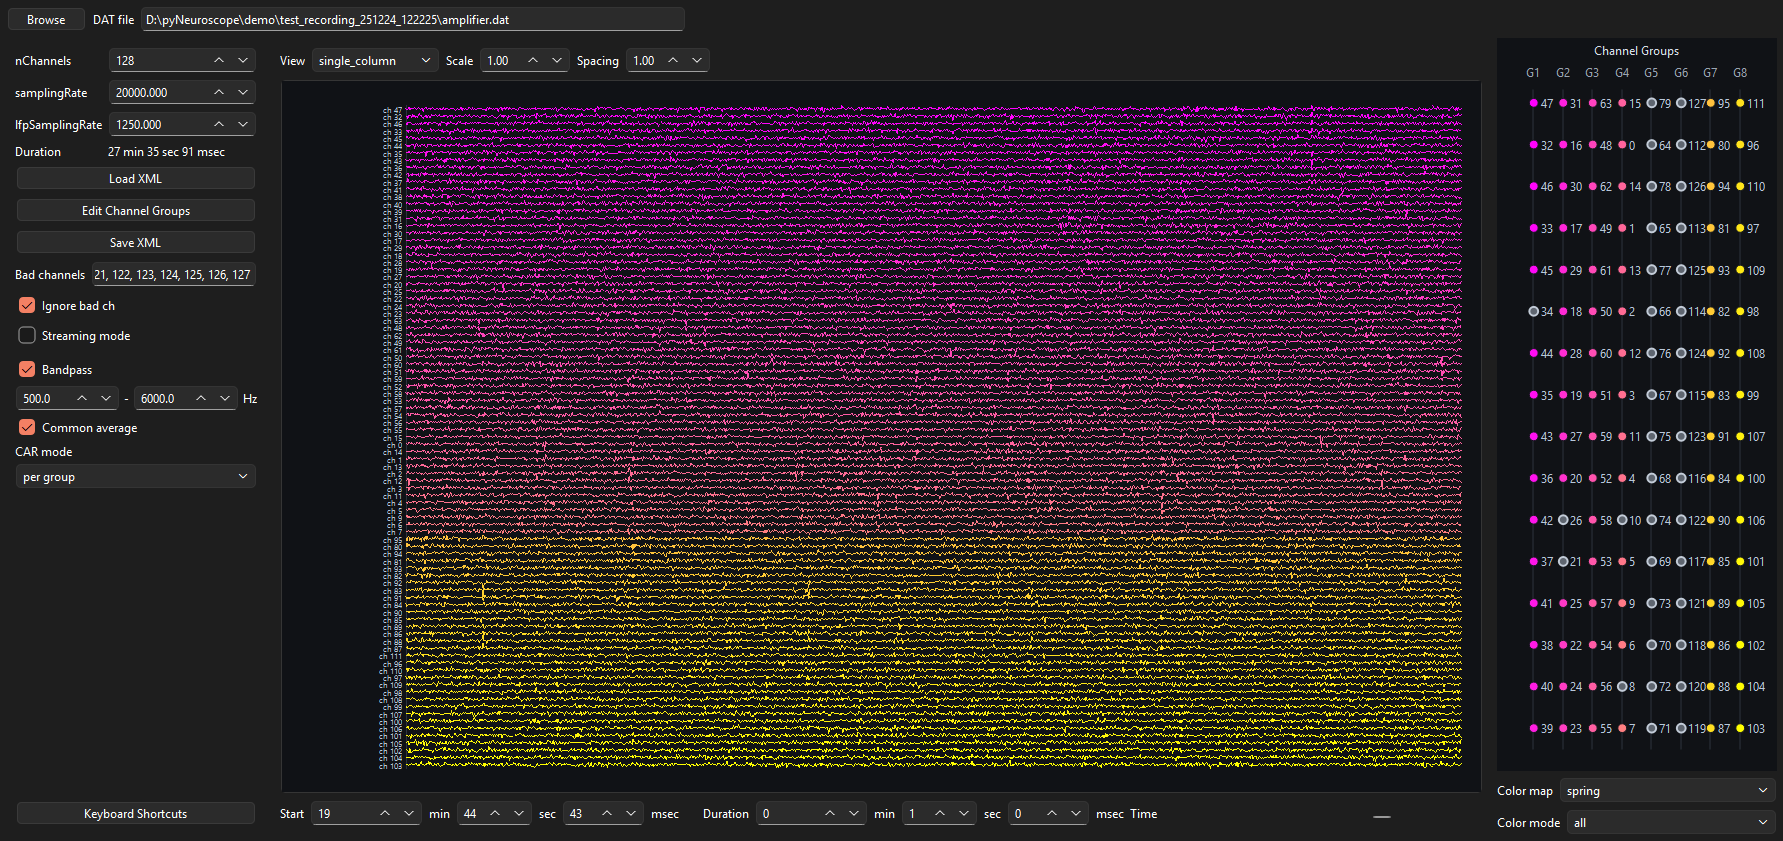
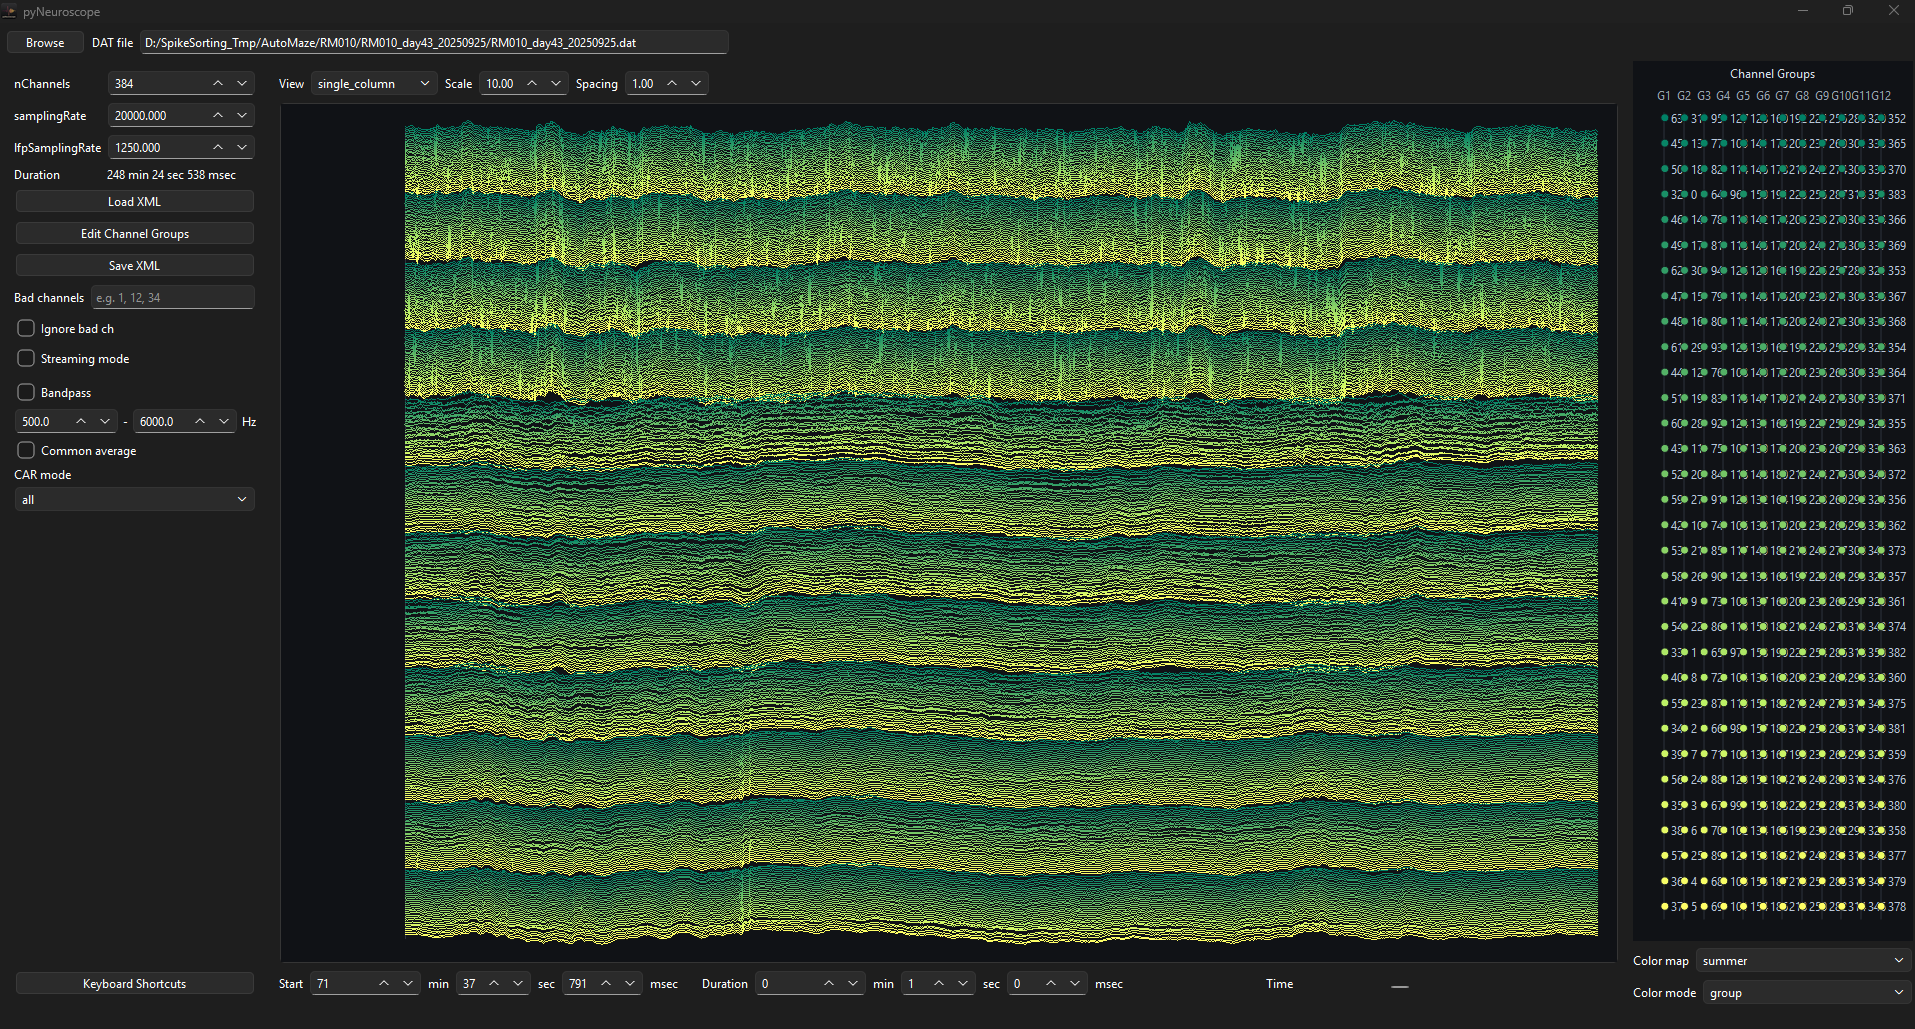
Add portable distribution option and update screenshot

diff --git a/README.md b/README.md
@@ -70,3 +70,6 @@ The installer will:
 - create a desktop shortcut,
 - include the `probe_xmls` folder with default probe XML files,
 - launch pyNeuroscope after installation.
+
+GitHub Releases also include `pyNeuroscope-Windows.zip` as a portable distribution.
+Use this zip if you prefer not to run the installer; extract the archive and run `pyNeuroscope.exe` from the unpacked `pyNeuroscope` folder.
